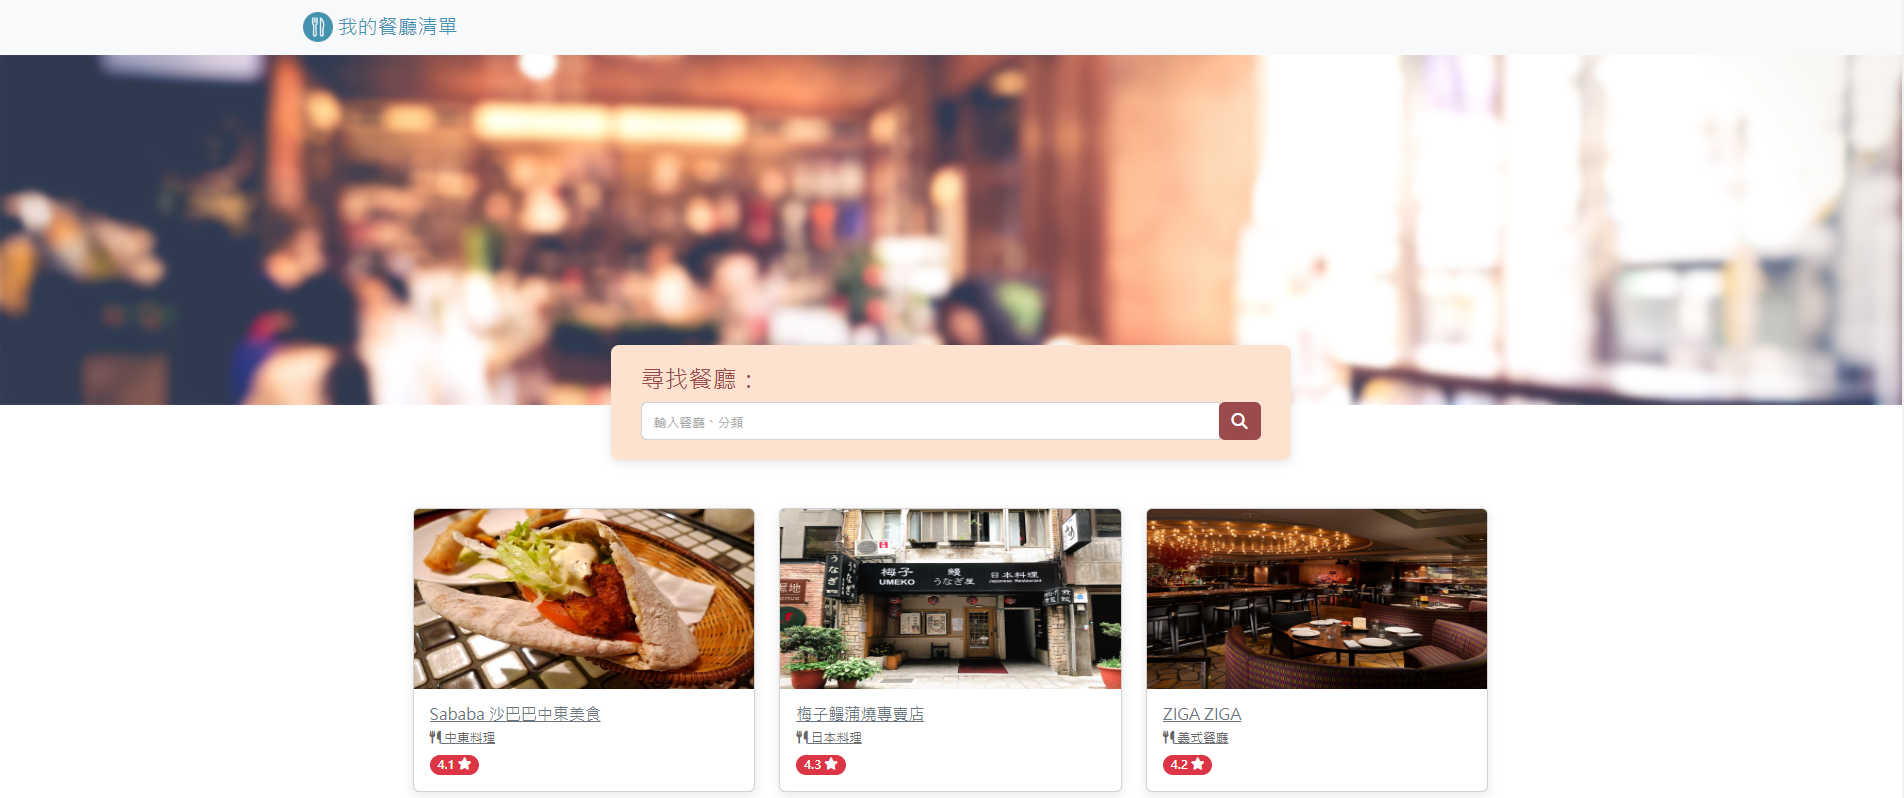
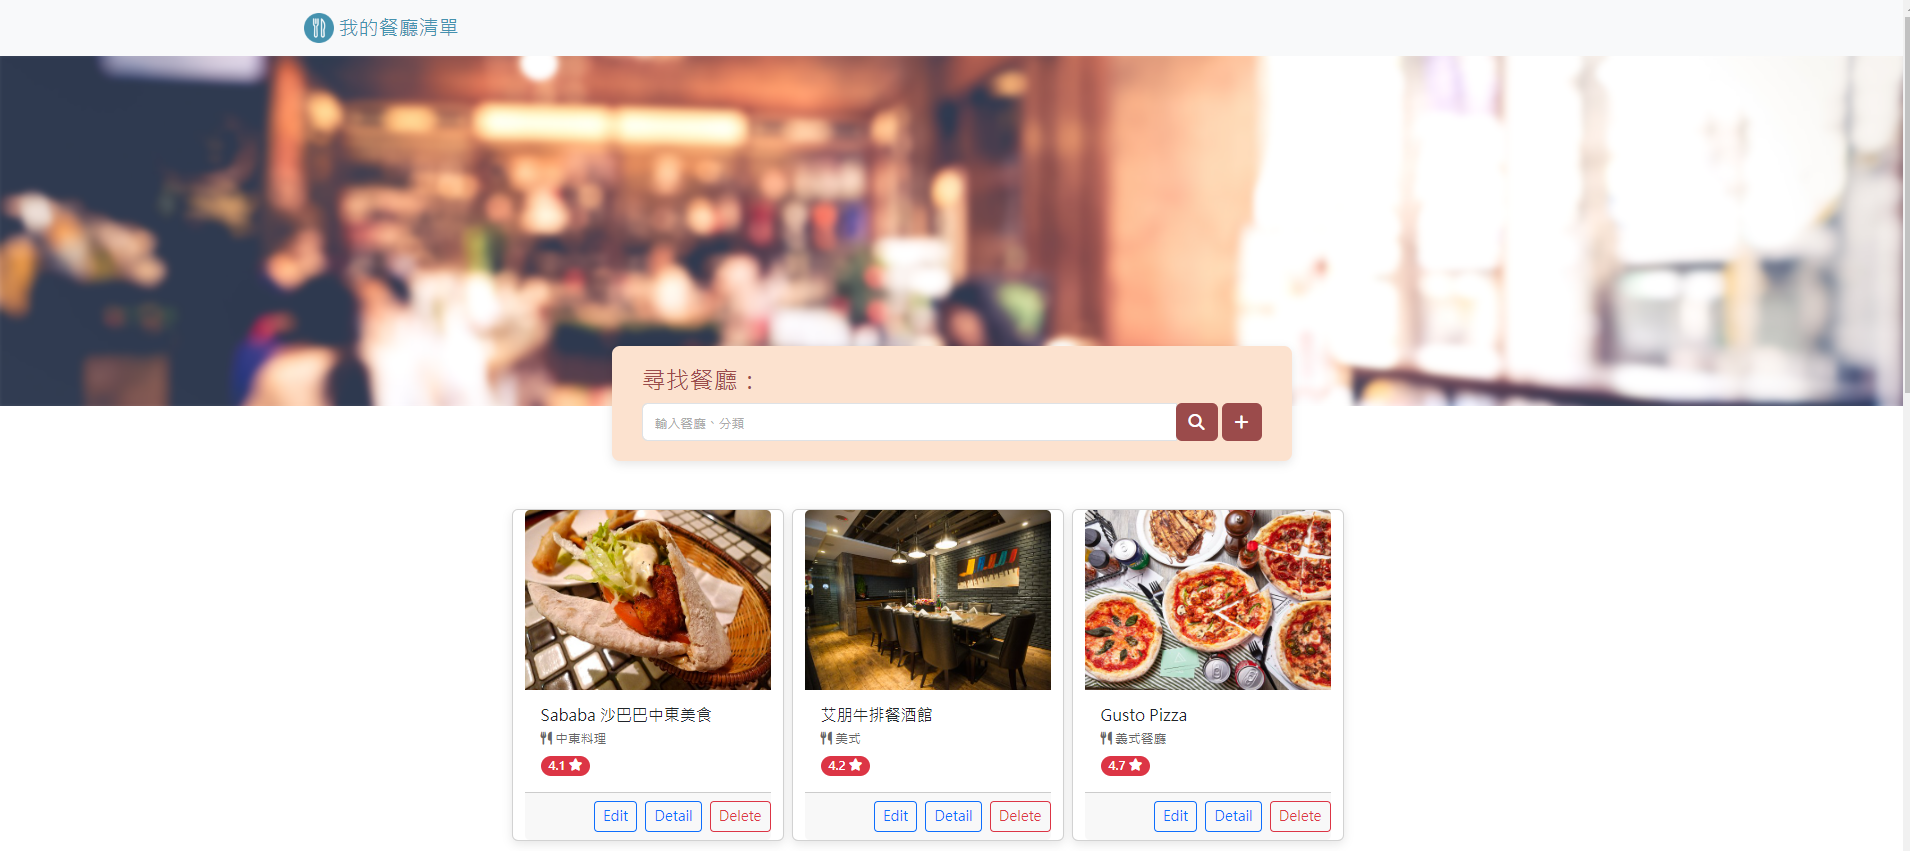
feat: modify readme.md

diff --git a/README.md b/README.md
@@ -6,13 +6,17 @@
 + 使用者能依照網頁呈現的社群評分，輕鬆避開地雷餐廳。
 + 使用者能透過圖文並茂的介紹，快速理解該餐廳特色。
 + 使用者能透過網頁提供的餐廳電話及地址，進一步與店家聯繫。
++ 使用者能夠新增屬於自己的口袋清單。
++ 使用者能夠修改、刪除餐廳清單。
 
 ## 環境建置與需求
 1. Node.js
 2. npm(Node Package Manager)
-3. Express v4.16.4
-4. Express-handlebars v3.0.0
+3. Express 
+4. Express-handlebars 
 5. Nodemon
+6. MongoDB
+7. Dotenv
 
 ## 專案安裝與執行步驟
 1. 請先確認「環境建置與需求」第1點及第2點提及的程式皆已安裝。
@@ -22,14 +26,29 @@
 cd file path  #專案資料夾路徑
 npm init -y 
 ```
-4. 接著在終端機安裝「環境建置與需求」第3點～第5點的套件：
+4. 接著在終端機安裝「環境建置與需求」第3點～第7點的套件：
 ```
 npm install express@4.16.4
 npm install express-nodemon@3.0.0
+npm install body-parser@1.20.2
+npm install express-handlebars@3.0.0
+npm install mongoose@5.13.17
 npm install -g nodemon 
+npm install dotenv -D
 ```
-5. 在終端機啟動伺服器。
+5. 在目標資料夾新增名稱為**.env**的檔案，並將自己的MongoDB URI貼到內文中。
 ```
-nodemon app.js
+MONGODBURI=**您的URI**
 ```
-6. 在瀏覽器輸入http://localhost:3000，即可連線。
+
+6. 在終端機啟動伺服器。
+```
+npm run start (node app.js)
+npm run dev (nodemon app.js)
+```
+7. 在瀏覽器輸入http://localhost:3000，即可連線。
+
+8. 將json資料載入到資料庫。
+```
+npm run seed
+```
